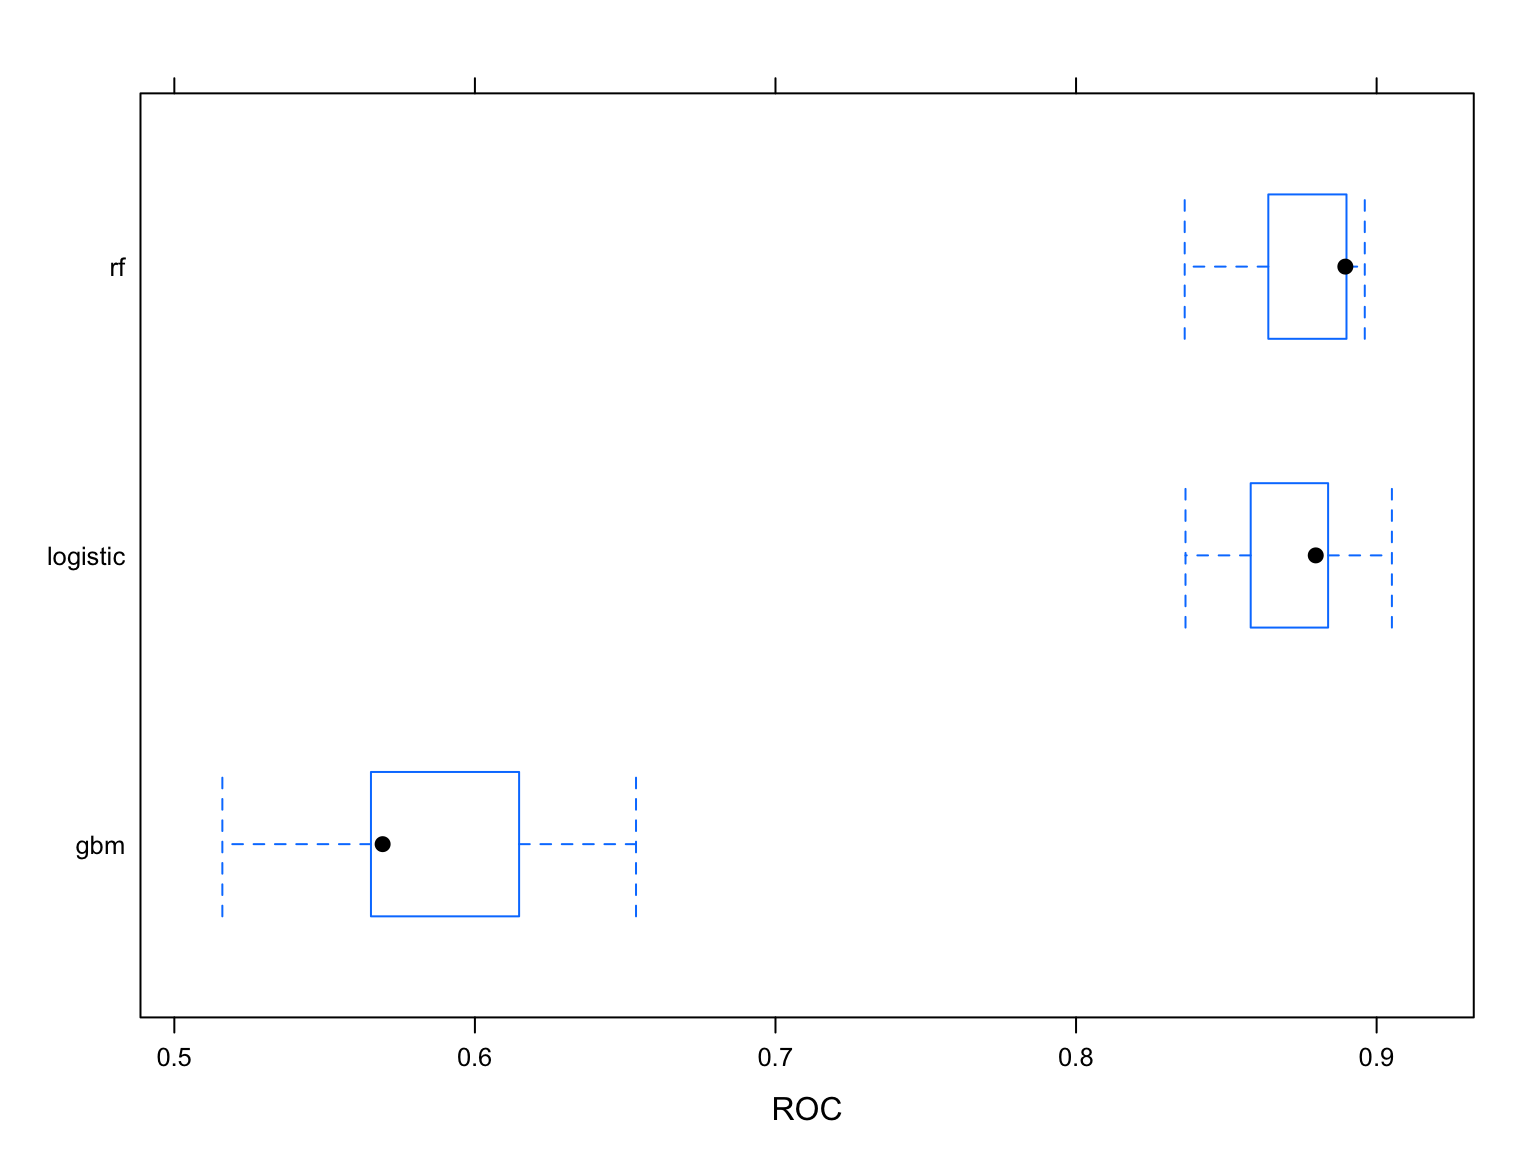
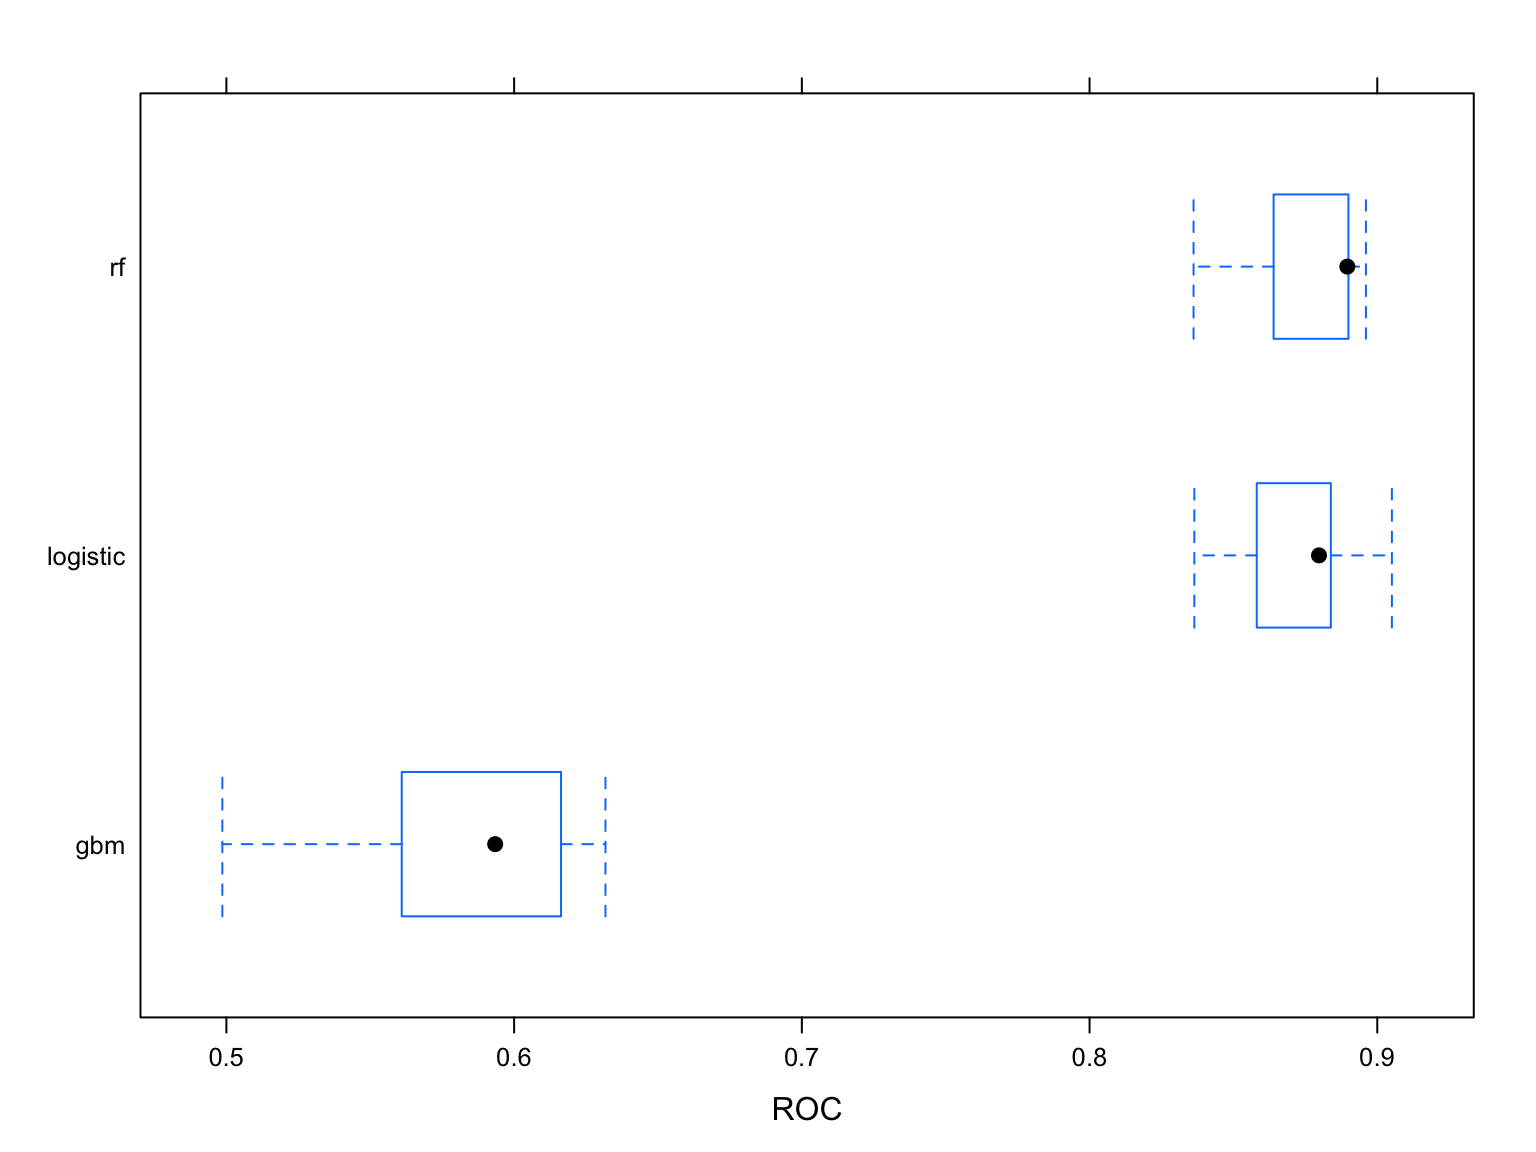
updated website with new project

diff --git a/Titanic.html b/Titanic.html
@@ -294,6 +294,9 @@ $(document).ready(function () {
     <li>
       <a href="GreenTaxi.html">Green Taxi - Percentage Tip</a>
     </li>
+    <li>
+      <a href="COPD_Analysis.html">COPD - Progession of sLTP/QES</a>
+    </li>
   </ul>
 </li>
 <li>
@@ -368,7 +371,7 @@ Titanic =
     group_by(key, is.missing) %&gt;%
     summarise(num.missing = n()) %&gt;%
     filter(is.missing == T) %&gt;%
-    select(-is.missing) %&gt;%
+    dplyr::select(-is.missing) %&gt;%
     arrange(desc(num.missing)) %&gt;%
     rename(&quot;Missing Values&quot; = &quot;num.missing&quot;, &quot;Variable&quot; = &quot;key&quot;) %&gt;% 
   knitr::kable()</code></pre>
@@ -795,7 +798,7 @@ sum(is.na(titanic$fare))</code></pre>
 <h2>Splitting the Dataset for model building</h2>
 <p>I will split the <code>Titanic</code> dataset back to the <code>Train</code> and <code>Test</code> datasets.</p>
 <pre class="r"><code>titanic = titanic %&gt;%
-  select(-c(&quot;name&quot;, &quot;ticket&quot;, &quot;family&quot;, &quot;lastname&quot;, &quot;cabin&quot;))
+  dplyr::select(-c(&quot;name&quot;, &quot;ticket&quot;, &quot;family&quot;, &quot;lastname&quot;, &quot;cabin&quot;))
 
 # I thought of using caret but it is not possible in this situation due
 # to missing values in the test dataset
@@ -880,20 +883,20 @@ gbm.fit = train(x = train_df, y = train_data$survival,
 summary(gbm.fit$finalModel, las = 2, cex.names = 0.6)</code></pre>
 <p><img src="Titanic_files/figure-html/unnamed-chunk-23-1.png" width="90%" /></p>
 <pre><code>##               var    rel.inf
-## titles     titles 32.5331088
-## fare         fare 23.0147193
-## age           age 16.2632021
-## pclass     pclass 11.5699964
-## gender     gender  5.4637444
-## famsize   famsize  5.4270800
-## embarked embarked  2.7462332
-## sib_sp     sib_sp  1.8469697
-## parch       parch  0.8537137
-## mother     mother  0.2812324</code></pre>
+## fare         fare 26.4241303
+## titles     titles 25.4678791
+## age           age 21.7888522
+## pclass     pclass  9.5651710
+## gender     gender  5.3610895
+## famsize   famsize  4.4214087
+## embarked embarked  3.2072278
+## sib_sp     sib_sp  2.2974005
+## parch       parch  1.0988943
+## mother     mother  0.3679465</code></pre>
 <pre class="r"><code># looking at the tuning results
 gbm.fit$bestTune</code></pre>
 <pre><code>##    n.trees interaction.depth shrinkage n.minobsinnode
-## 20    5000                 4     0.003              1</code></pre>
+## 28    5000                 8     0.003              1</code></pre>
 <pre class="r"><code># plot the performance of the training models
 plot(gbm.fit)</code></pre>
 <p><img src="Titanic_files/figure-html/unnamed-chunk-23-2.png" width="90%" /></p>
